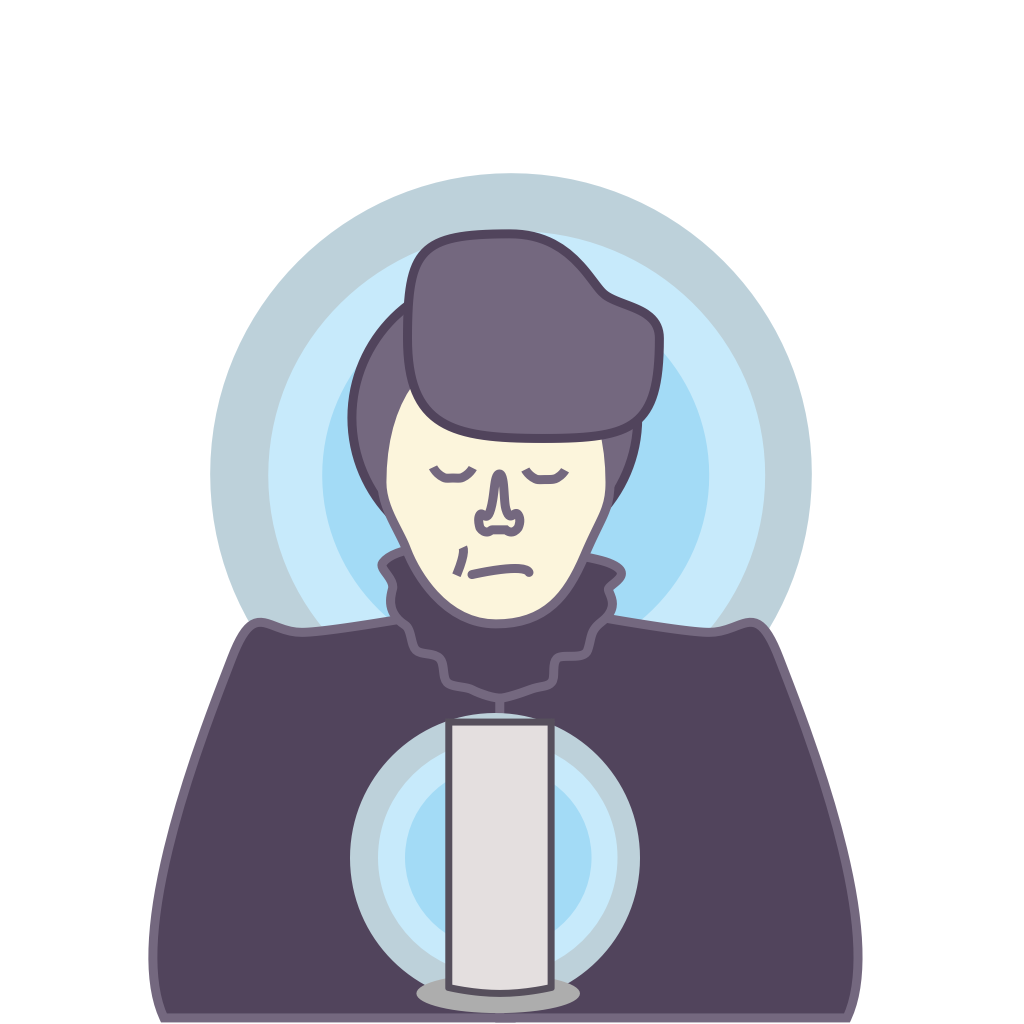
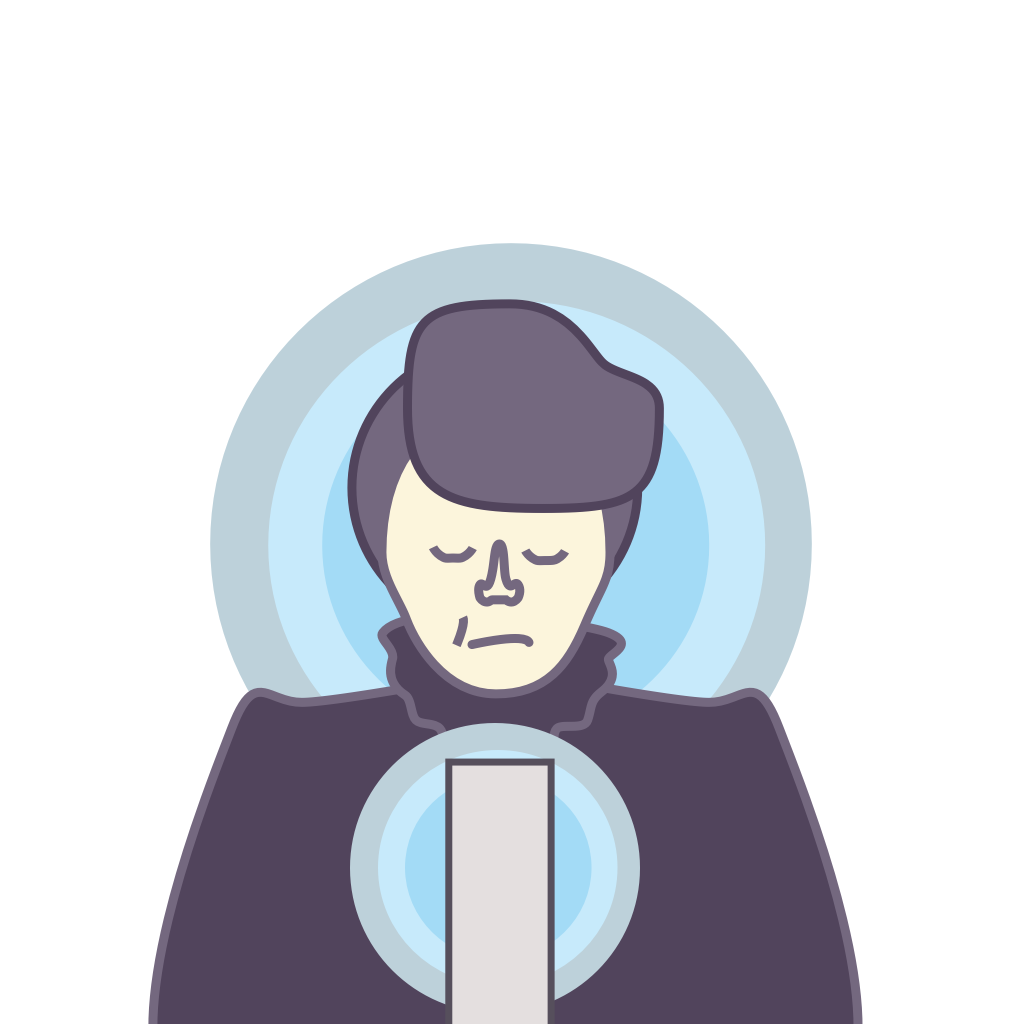
klakslal

Changed region(s): [[0.125, 0.1562, 0.8438, 1.0]]

diff --git a/css/deadlyelement.css b/css/deadlyelement.css
@@ -19,7 +19,7 @@ margin: auto;
 left: 0;
 right: 0;
 text-align: center;
-width: 10%;
+width: 5%;
 padding: 0.5em;
 margin-top:1em;z-index: 3;
 background-color: white;
@@ -37,26 +37,32 @@ transition: 0.2s ease-in-out}
 
 a.home-button:hover{text-decoration: none;
 font-family: 'Varela Round', sans-serif;
-background-color: rgba(203,93,94,0.8);
-color: white;}
+background-color: rgba(203,93,94,1);
+color: white;
+border: 4px;
+border-style: solid;
+    border-color: white;
+border-radius: 30px;}
 a.home-button:active{text-decoration: none;
 font-family: 'Varela Round', sans-serif;
 background-color:rgba(203,93,94,1);
 color: white;
 transition: 0.1s;}
 
-.element-nav{z-index: 4;position: absolute;right: -1.8em;
-    top:5.8em;
-list-style: none;
-padding-top: 0.5em;
+.element-nav{display: flex;
+    position:fixed;
+    right: 0;
+    z-index: 4;
+    list-style: none;
+    top: -2em
  
 }
-.element-nav li{padding: 0;}
+.element-nav li{padding:0 ;}
 .element-nav img{transform: scale(0.5)}
 .element-nav a{opacity: 0.5;}
 .element-nav a:hover{opacity: 1}
+.element-nav a:active{}
 
-.element-nav a:active{opacity: 1}
 
 .container{display: flex;
 flex-wrap: wrap-reverse;
@@ -82,7 +88,6 @@ background-position: top }
 .left{
 background-position: bottom  ;
 width: 50%;
-border-right:10px;;
 }
 
 .right{width:50% ;
@@ -97,7 +102,7 @@ bottom: 0;}
 .element-background{width: 50%;position: fixed;z-index: 1;
 }
 
-.sub-heading{padding: 1em;
+.sub-heading{padding: em;
     margin-top: 1em}
 
 h1{font-family: 'Varela Round', sans-serif;}
@@ -131,11 +136,10 @@ h2{color: gray;
 text-transform: uppercase;
 font-family: 'Varela Round', sans-serif;}
 
-p{color: gray;
-    width: 60%;
+p{
+    width: 90%;
     line-height: 1.4em ;
 margin: auto;
-margin-top: 1em;
 font-size:1.3em;
 font-family: 'Varela Round', sans-serif;}
 
@@ -166,16 +170,25 @@ border-style: solid;
 border-radius: 25px;
 border-color:indianred;}
 
-.deadlyfact{margin-top: 13em;
+.deadlyfact{margin-top: 2em;
     margin-left: 1em;
    
-    height:35%;
+    height:auto;
+    padding: 1em;
 width: 60%;
 background-color: indianred;
 border-radius: 25px;
 text-align: center;
 }
-
+.deadlyfact-right{margin-top: 8em;
+    margin-left: 1em;
+   position: absolute;
+    height:auto;
+    padding: 1em;
+width: 40%;
+background-color: indianred;
+border-radius: 25px;
+text-align: center;}
 span{ 
 }
 
@@ -207,11 +220,18 @@ transition: 0.2s}
 margin: auto;
 margin-top: .5em}
 
+.arrow-up{display: block;
+margin: auto;
+margin-top: 12.2em;
+transition: 0.2s}
+
+.arrow-up:hover{transform: scale(1.1);
+    display: block;
+margin: auto;
+margin-top: 12.2em}
+
 .fact-skeleton{position: absolute;
     
-  bottom: 100;
-    right: -22em;
-   
     transform: scale(0.3);
     
 }

diff --git a/mercury.html b/mercury.html
@@ -29,8 +29,17 @@
             
             <h1 class="pic-title"> Emperor Qin Shi Huang </h1>
                <!-- <img class="element-background" src="image/palace.png"/>-->
+                
+                 
+                
              <img class="element" src="image/MERCURY.png"/>
+                
+             <div class="deadlyfact-right">
             
+                    <p>
+                        Symptoms of Lead poisoning are varied. They may affect many parts of
+                    </p>
+                </div>
             
             </div>
             
@@ -61,16 +70,13 @@
                  <a href="#top"><img class="arrow-up" src="image/up-arrow.svg"/></a>
                 
                 
-                <span><div id="scroll-down" class="deadlyfact">
-            Deadly Fact
+               <div id="scroll-down" class="deadlyfact">
+            <h1>Deadly Fact</h1>
+                    <p>
+                        Symptoms of Lead poisoning are varied. They may affect many parts of the body. Since a child’s brain is still developing, lead can lead to intellectual disability. High exposure to lead may lead to severe abdominal pain, cramping,
+vomiting and even send a person into a coma.
+                    </p>
                 </div>
-                
-            </div>
-                
-                
-               
-     
-            </div>
          
             <img class="fact-skeleton" src="image/skeleton.png"/>
         

diff --git a/chlorine.html b/chlorine.html
@@ -27,8 +27,16 @@
             <div class="left chlorine">
             
             <h1 class="pic-title">Chemical weapons</h1>
+                
+                
+                
              <img class="element" src="image/CHLORINE.png"/>
+             <div class="deadlyfact-right">
             
+                    <p>
+                        Symptoms of Lead poisoning are varied. They may affect many parts of
+                    </p>
+                </div>
             
             </div>
             
@@ -60,16 +68,13 @@
                  <a href="#top"><img class="arrow-up" src="image/up-arrow.svg"/></a>
                 
                 
-                <span><div id="scroll-down" class="deadlyfact">
-            Deadly Fact
+              <div id="scroll-down" class="deadlyfact">
+            <h1>Deadly Fact</h1>
+                    <p>
+                        Symptoms of Lead poisoning are varied. They may affect many parts of the body. Since a child’s brain is still developing, lead can lead to intellectual disability. High exposure to lead may lead to severe abdominal pain, cramping,
+vomiting and even send a person into a coma.
+                    </p>
                 </div>
-                
-            </div>
-                
-                
-               
-     
-            </div>
          
             <img class="fact-skeleton" src="image/skeleton.png"/>
         

diff --git a/hydrogen.html b/hydrogen.html
@@ -28,7 +28,14 @@
             <h1 class="pic-title"> The Hindenburg Disaster </h1>
             <img class="balloon element" src="image/HYDROGEN.png"/>
             
+                <div class="deadlyfact-right">
             
+                    <p>
+                        Symptoms of Lead poisoning are varied. They may affect many parts of
+                    </p>
+                </div>        
+
+                
             </div>
             
             
@@ -55,16 +62,13 @@
                  <a href="#top"><img class="arrow-up" src="image/up-arrow.svg"/></a>
                 
                 
-                <span><div id="scroll-down" class="deadlyfact">
-            Deadly Fact
+              <div id="scroll-down" class="deadlyfact">
+            <h1>Deadly Fact</h1>
+                    <p>
+                        Symptoms of Lead poisoning are varied. They may affect many parts of the body. Since a child’s brain is still developing, lead can lead to intellectual disability. High exposure to lead may lead to severe abdominal pain, cramping,
+vomiting and even send a person into a coma.
+                    </p>
                 </div>
-                
-            </div>
-                
-                
-               
-     
-            </div>
          
             <img class="fact-skeleton" src="image/skeleton.png"/>
         

diff --git a/polonium.html b/polonium.html
@@ -29,7 +29,13 @@
                 
              <img class="element" src="image/POLONIUM.png"/>
             
+             <div class="deadlyfact-right">
             
+                    <p>
+                        Symptoms of Lead poisoning are varied. They may affect many parts of
+                    </p>
+                </div>
+                
             </div>
             
             
@@ -60,16 +66,13 @@
                  <a href="#top"><img class="arrow-up" src="image/up-arrow.svg"/></a>
                 
                 
-                <span><div id="scroll-down" class="deadlyfact">
-            Deadly Fact
+               <div id="scroll-down" class="deadlyfact">
+            <h1>Deadly Fact</h1>
+                    <p>
+                        Symptoms of Lead poisoning are varied. They may affect many parts of the body. Since a child’s brain is still developing, lead can lead to intellectual disability. High exposure to lead may lead to severe abdominal pain, cramping,
+vomiting and even send a person into a coma.
+                    </p>
                 </div>
-                
-            </div>
-                
-                
-               
-     
-            </div>
          
             <img class="fact-skeleton" src="image/skeleton.png"/>
         

diff --git a/lead.html b/lead.html
@@ -36,6 +36,12 @@
             
             </div>
             
+                <div class="deadlyfact-right">
+            
+                    <p>
+                        Symptoms of Lead poisoning are varied. They may affect many parts of
+                    </p>
+                </div>
             
             <div id="top" class="right">
             
@@ -52,7 +58,7 @@
                      <li> Atomic Number: 82 </li>
                     <li> State: Solid</li>
                     <li> Name History: Anglo Saxon for metal</li>
-                    <li> Danger: Toxic</li>
+                    <li> Danger: TOXIC</li>
                 
                 </ul>
     </div>
@@ -63,7 +69,11 @@
                 
                 
                 <span><div id="scroll-down" class="deadlyfact">
-            Deadly Fact
+            <h1>Deadly Fact</h1>
+                    <p>
+                        Symptoms of Lead poisoning are varied. They may affect many parts of the body. Since a child’s brain is still developing, lead can lead to intellectual disability. High exposure to lead may lead to severe abdominal pain, cramping,
+vomiting and even send a person into a coma.
+                    </p>
                 </div></span>
                 
             </div>

diff --git a/css/deadlystyle.css b/css/deadlystyle.css
@@ -13,14 +13,7 @@ body{;
         overflow-y: hidden;
 }
     
-.skeleton{margin: auto;
-    left: 0;
-    right: 0;
-    z-index: 2;
-position: absolute;
-transform: scale(0.6);
-    width:1000px;
-bottom:-12%;}
+
 img{margin: auto 0;}
 
 .atom{position: fixed;
